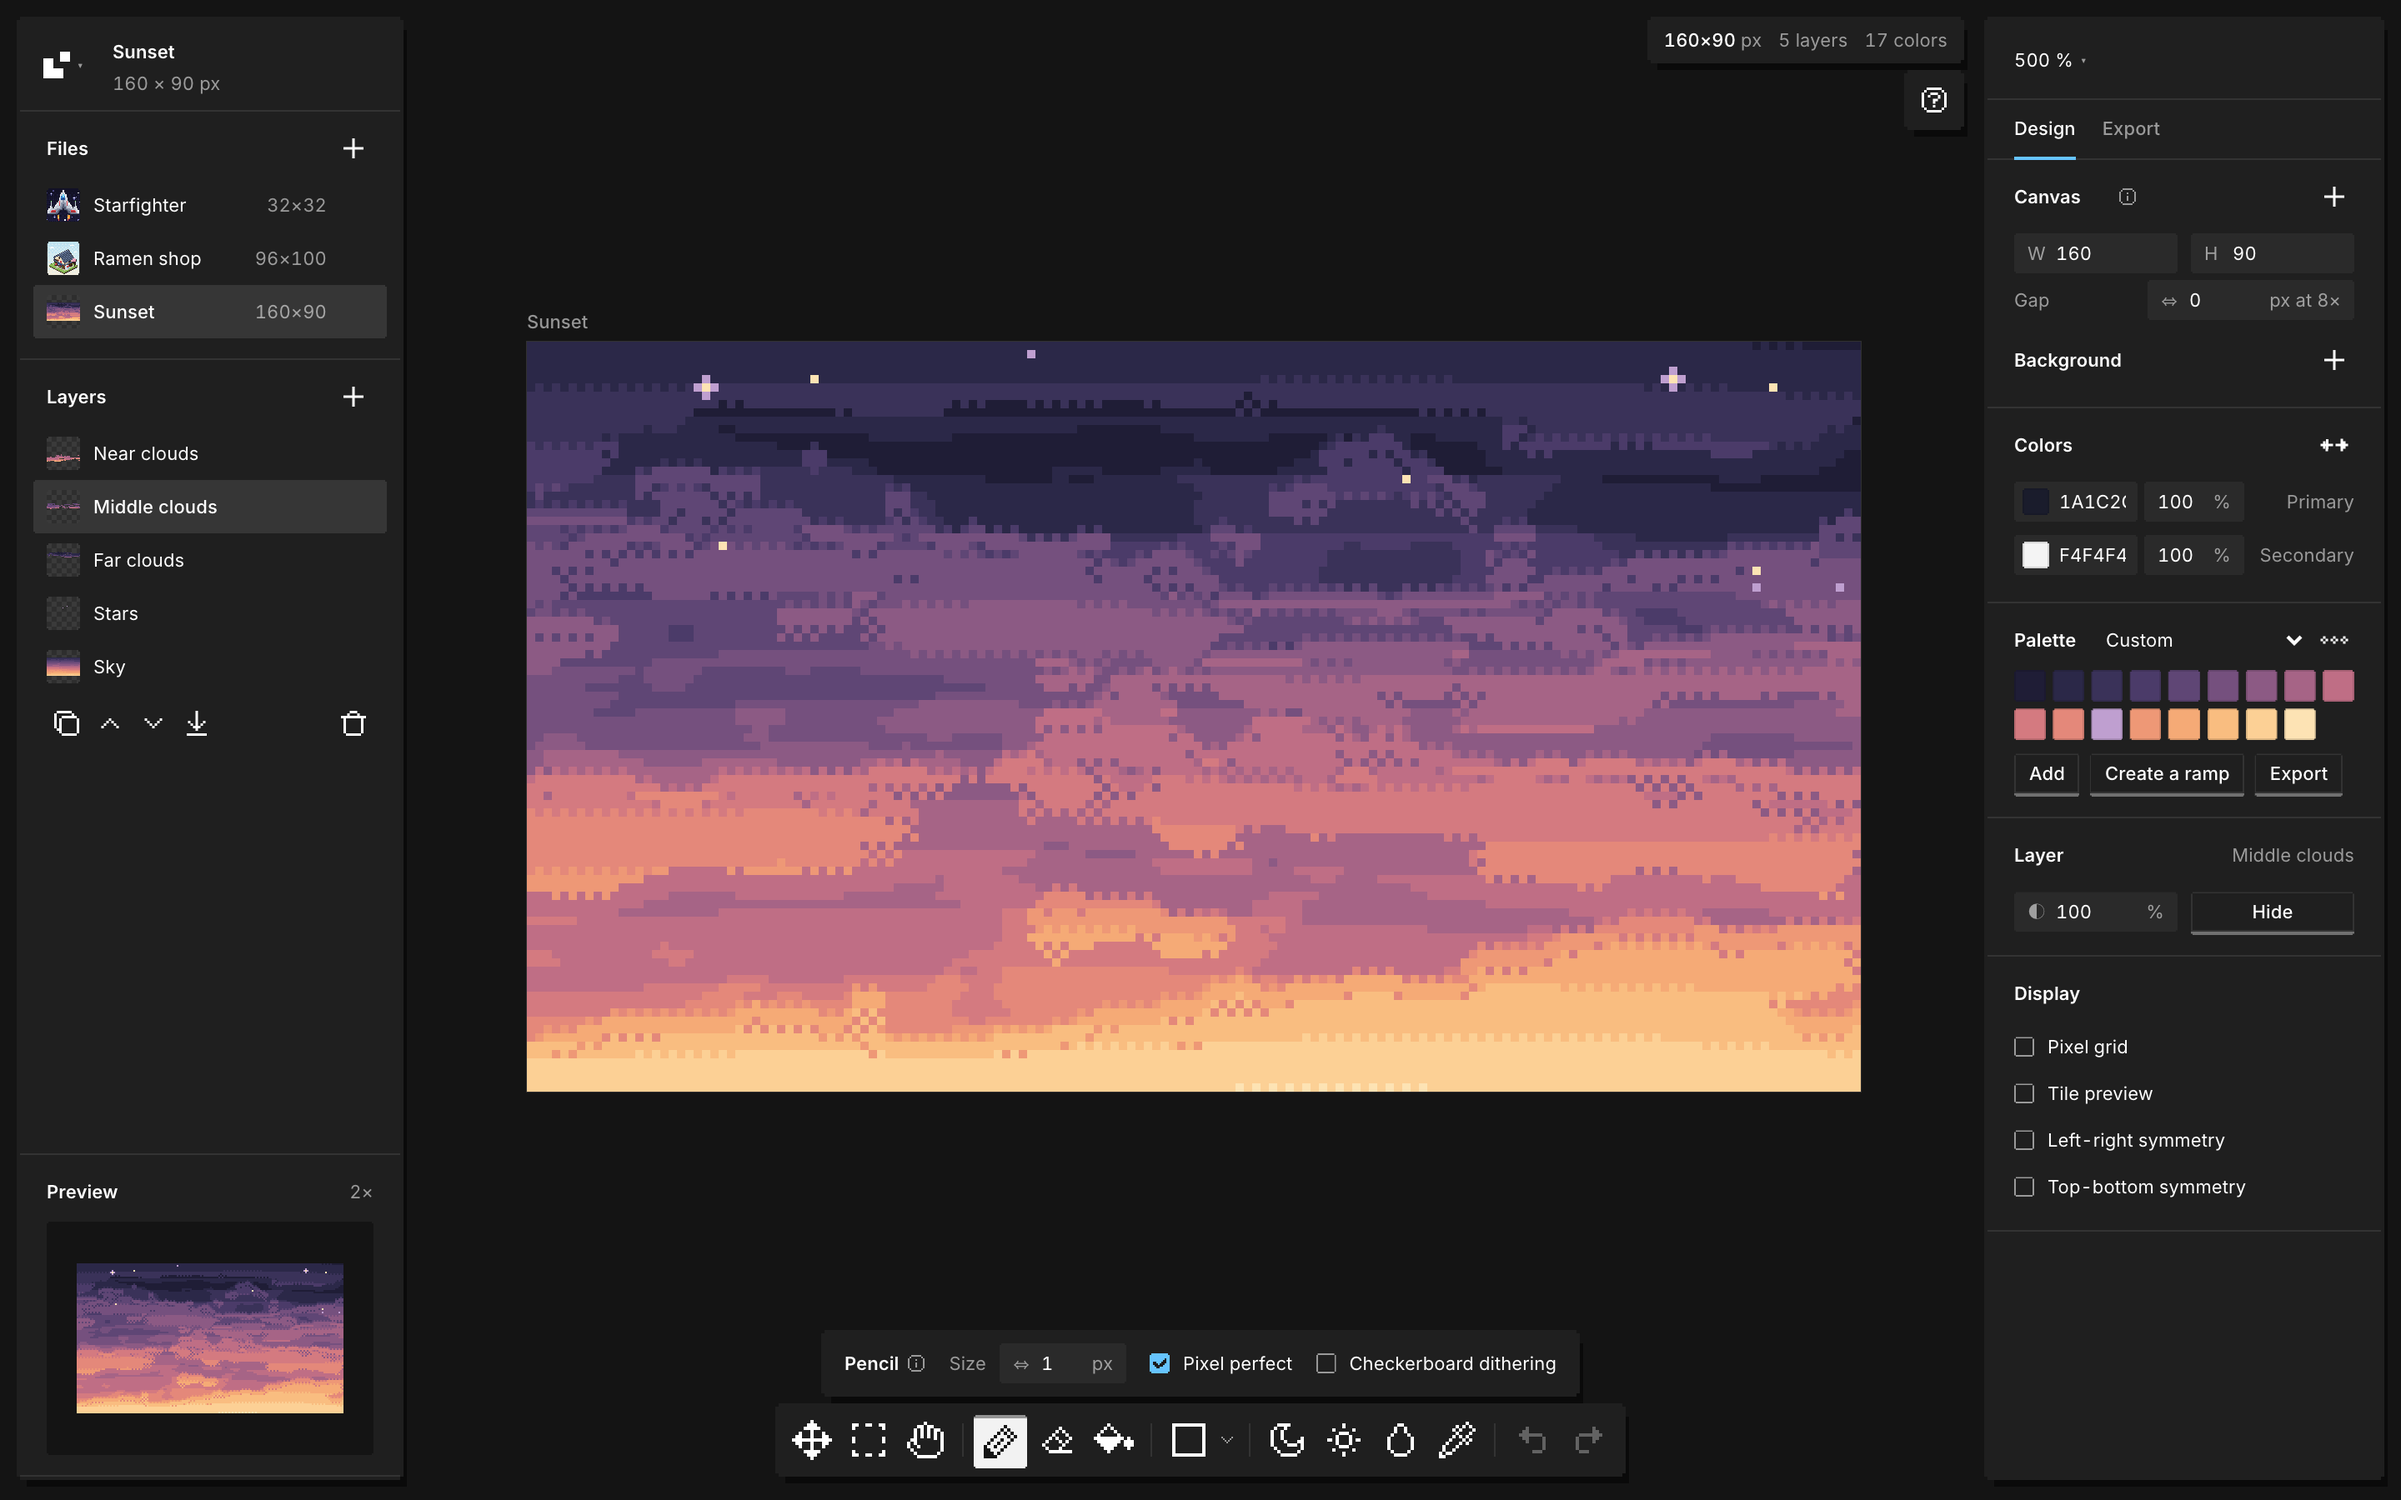
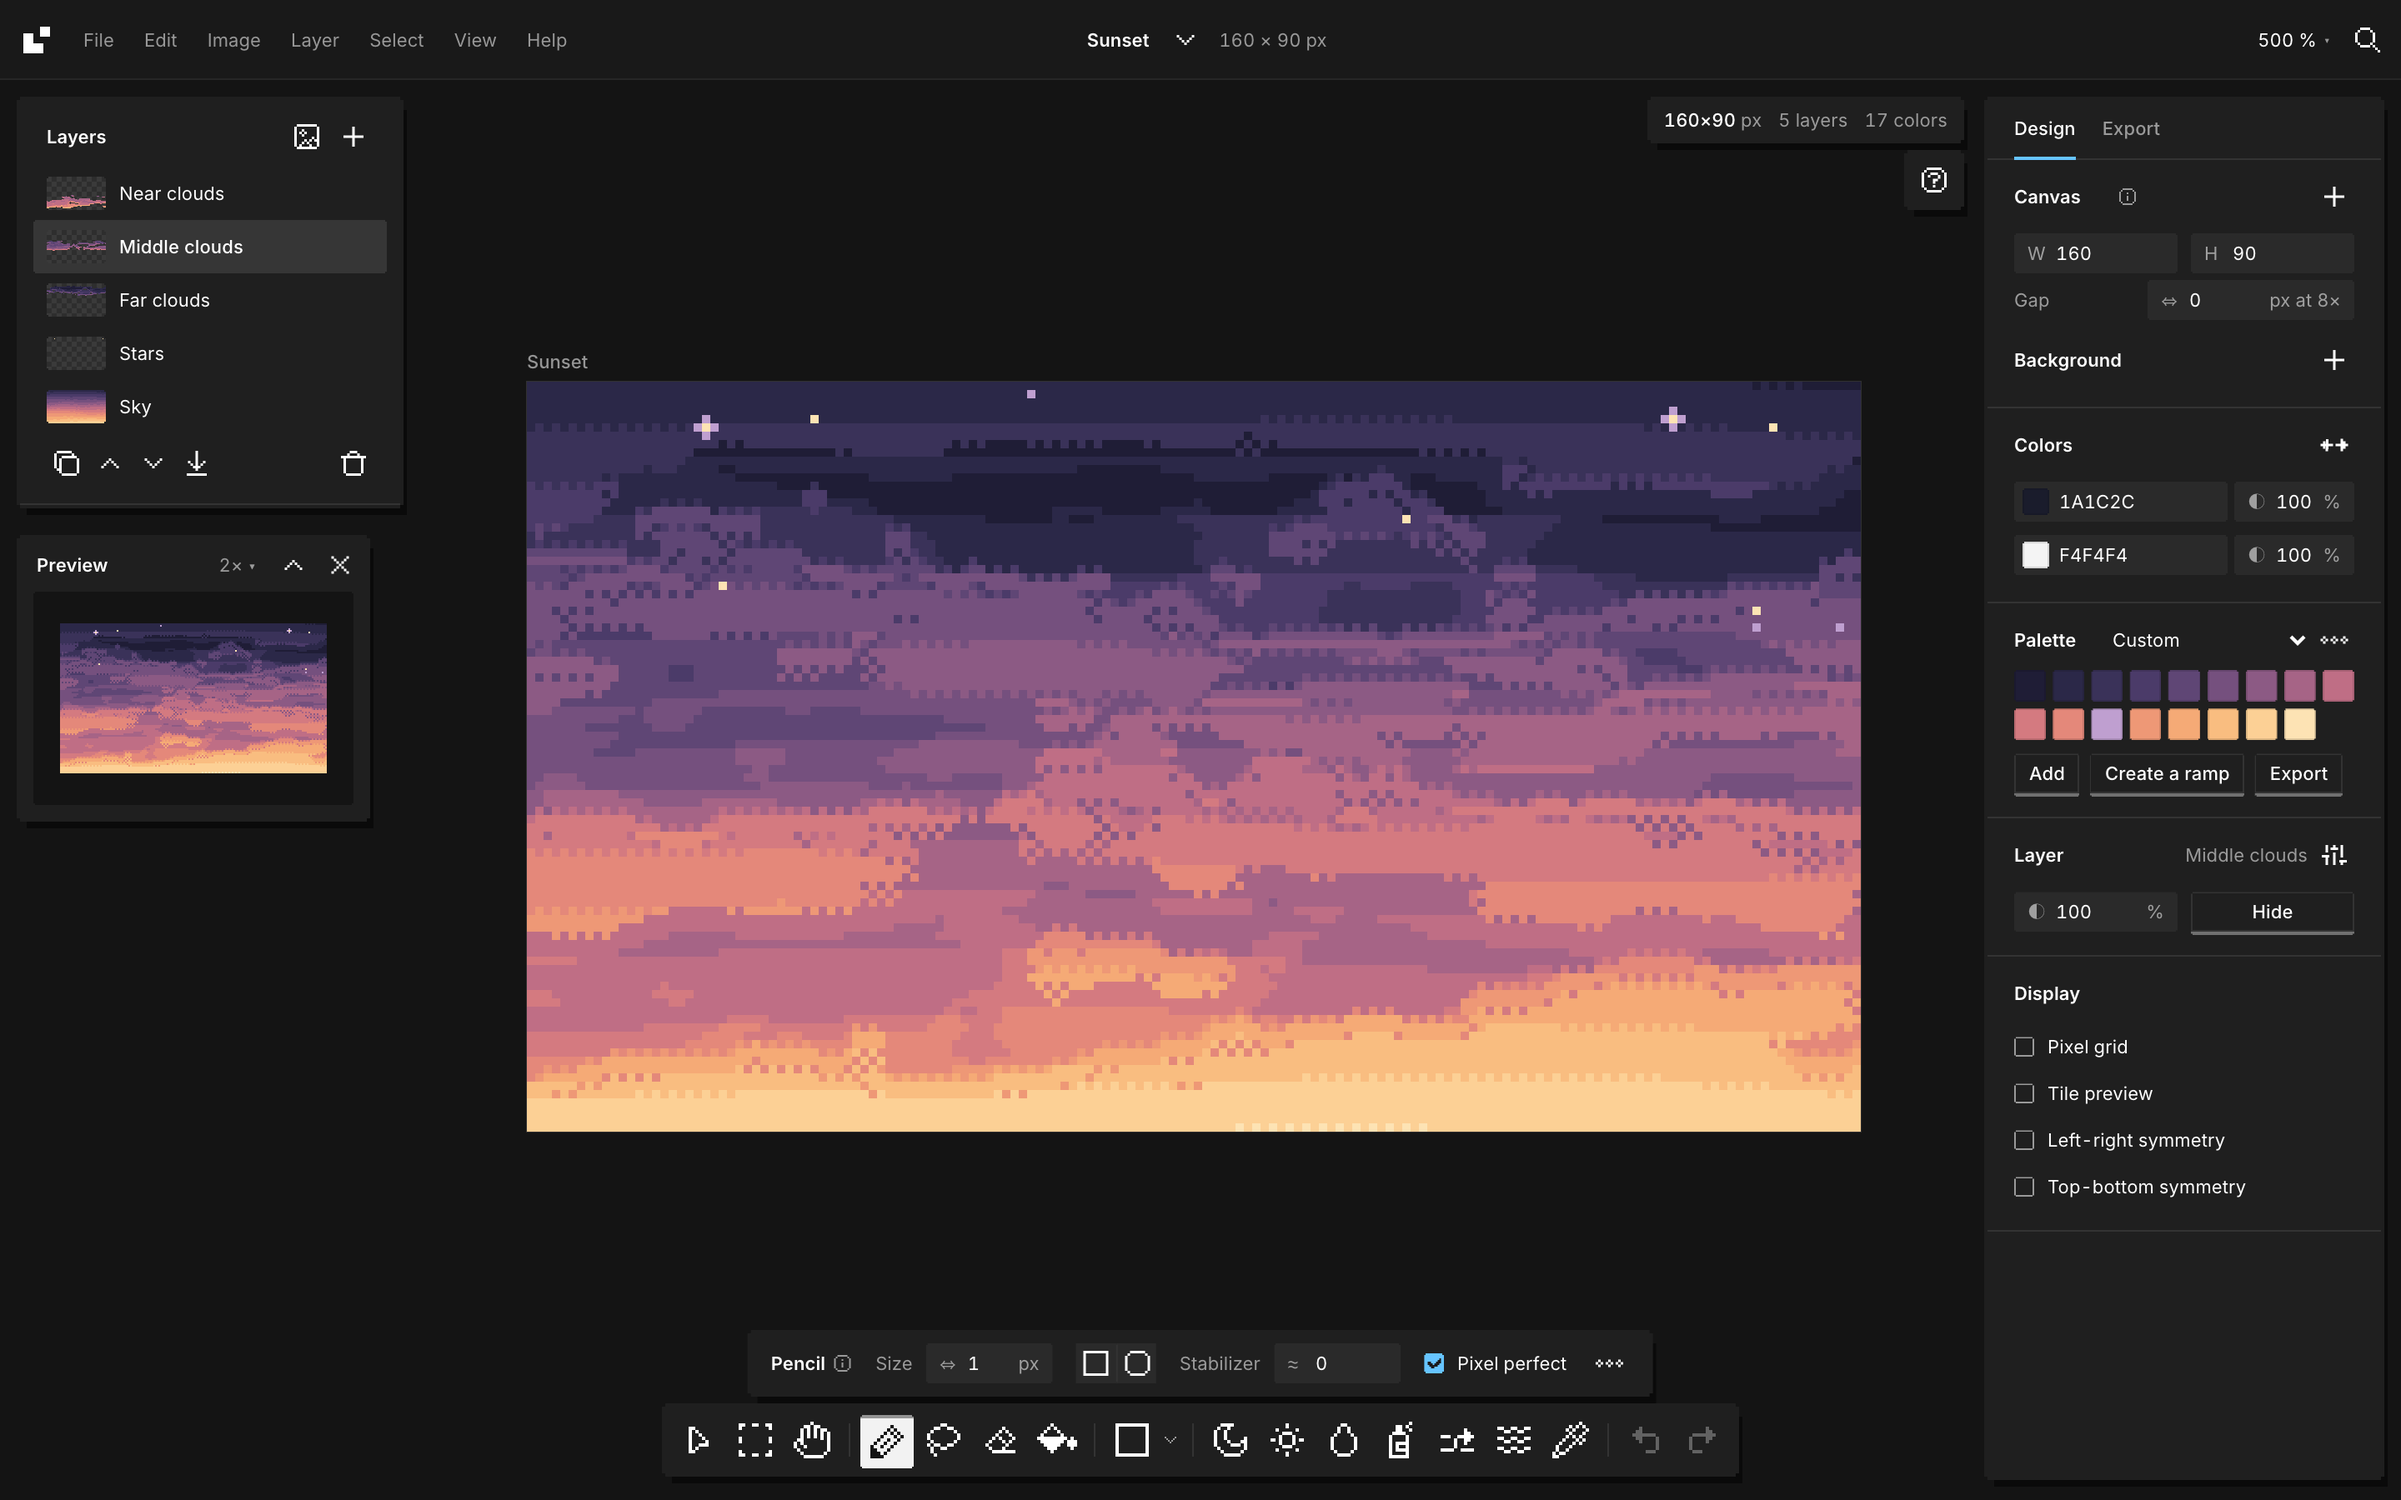
New screenshots of the editor on the home page

diff --git a/CHANGELOG.md b/CHANGELOG.md
@@ -54,6 +54,7 @@ Notable changes to Baipix, newest first. The format follows [Keep a Changelog](h
 
 ### Website
 
+- New screenshots of the editor on the home page, with the menu bar and the floating preview, and feature cards for what's new: the command palette, Remap, the Lasso fill, Spray and custom brushes, Liquify and Jumble, seamless tiles, the reference image. (#PR)
 - The design system shows the tabs. (#184)
 - The design system shows the color row (swatch, hex and opacity). (#181)
 - The design system shows the segmented icon buttons (like the brush tip choice). (#179)
